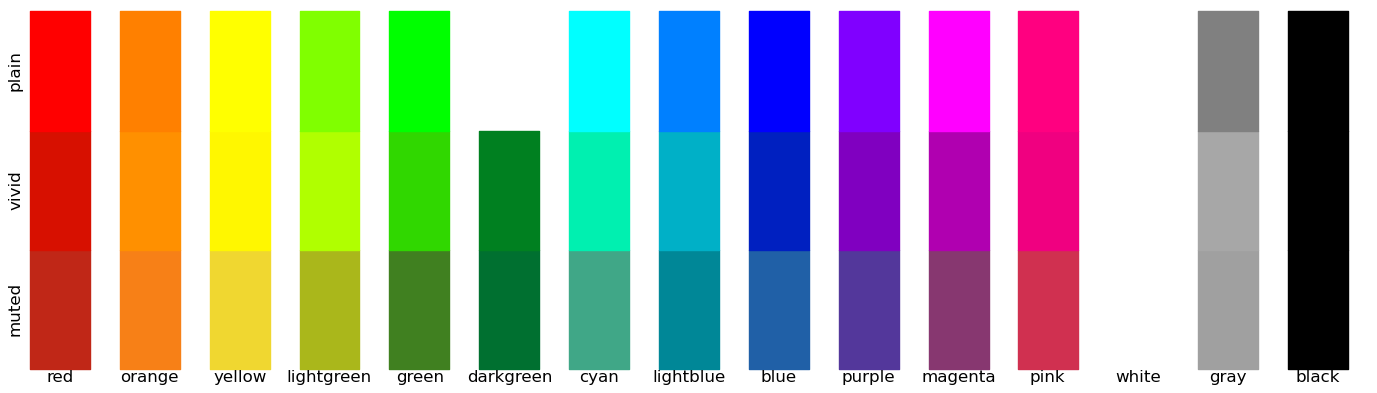
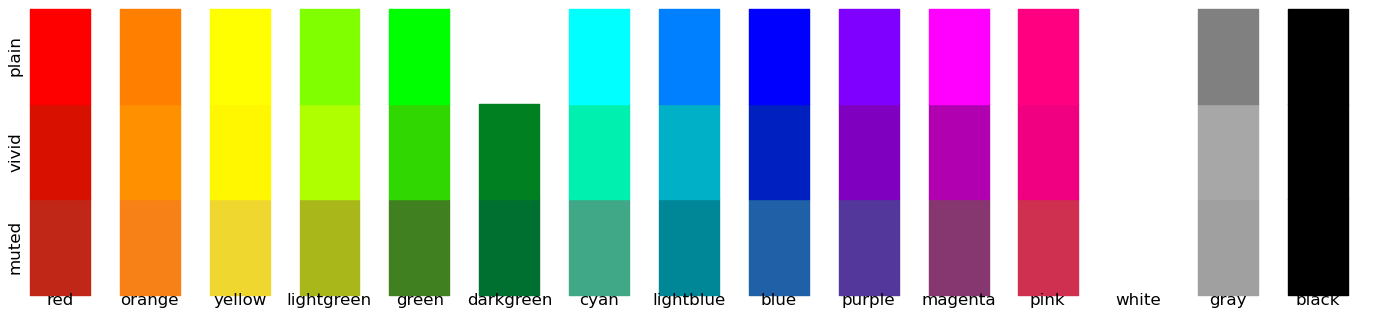
[docs] fixed color plot sizes

diff --git a/docs/figures/colors.py b/docs/figures/colors.py
@@ -86,7 +86,7 @@ def gradient_figure():
 def colormap_figure():
     """ Generate a figure demonstrating the colormap() function.
     """
-    fig, ax = plt.subplots(cmsize=(20.0, 5.0))
+    fig, ax = plt.subplots(cmsize=(20.0, 4.0))
     fig.subplots_adjust(leftm=1.5, rightm=1.5, topm=0, bottomm=1.5)
     cmcolors = [colors['red'], lighter(colors['orange'], 0.85),
                 lighter(colors['yellow'], 0.2), lighter(colors['lightblue'], 0.8),
@@ -110,7 +110,7 @@ def plotcolors_figure():
 def plotcomplementary_figure():
     """ Generate a figure demonstrating the plot_complementary_colors() function.
     """
-    fig, ax = plt.subplots(cmsize=(25.0, 12.0))
+    fig, ax = plt.subplots(cmsize=(25.0, 6.0))
     fig.subplots_adjust(leftm=0, rightm=0, topm=0, bottomm=0)
     ax.show_spines('')
     plot_complementary_colors(ax, colors)
@@ -120,7 +120,7 @@ def plotcomplementary_figure():
 def plotcomparison_figure():
     """ Generate a figure demonstrating the plot_color_comparison() function.
     """
-    fig, ax = plt.subplots(cmsize=(35.0, 10.0))
+    fig, ax = plt.subplots(cmsize=(35.0, 8.0))
     fig.subplots_adjust(leftm=0, rightm=0, topm=0, bottomm=0)
     ax.show_spines('')
     plot_color_comparison(ax, (color_palettes['muted'], 'muted'),

diff --git a/docs/colors.md b/docs/colors.md
@@ -219,6 +219,7 @@ For displaying colors and color maps, four functions are provided:
 - `plot_color_comparison()`: plot matching colors of severals palettes on top of each other.
   ![plotcomparison](figures/colors-plotcomparison.png)
 - `plot_colormap()`: plot a color map and its luminance.
+  ![plotcolormap](figures/colors-plotcolormap.png)
 
 These functions are helpfull when creating new palettes. See their
 documentation for details on how to use them.
